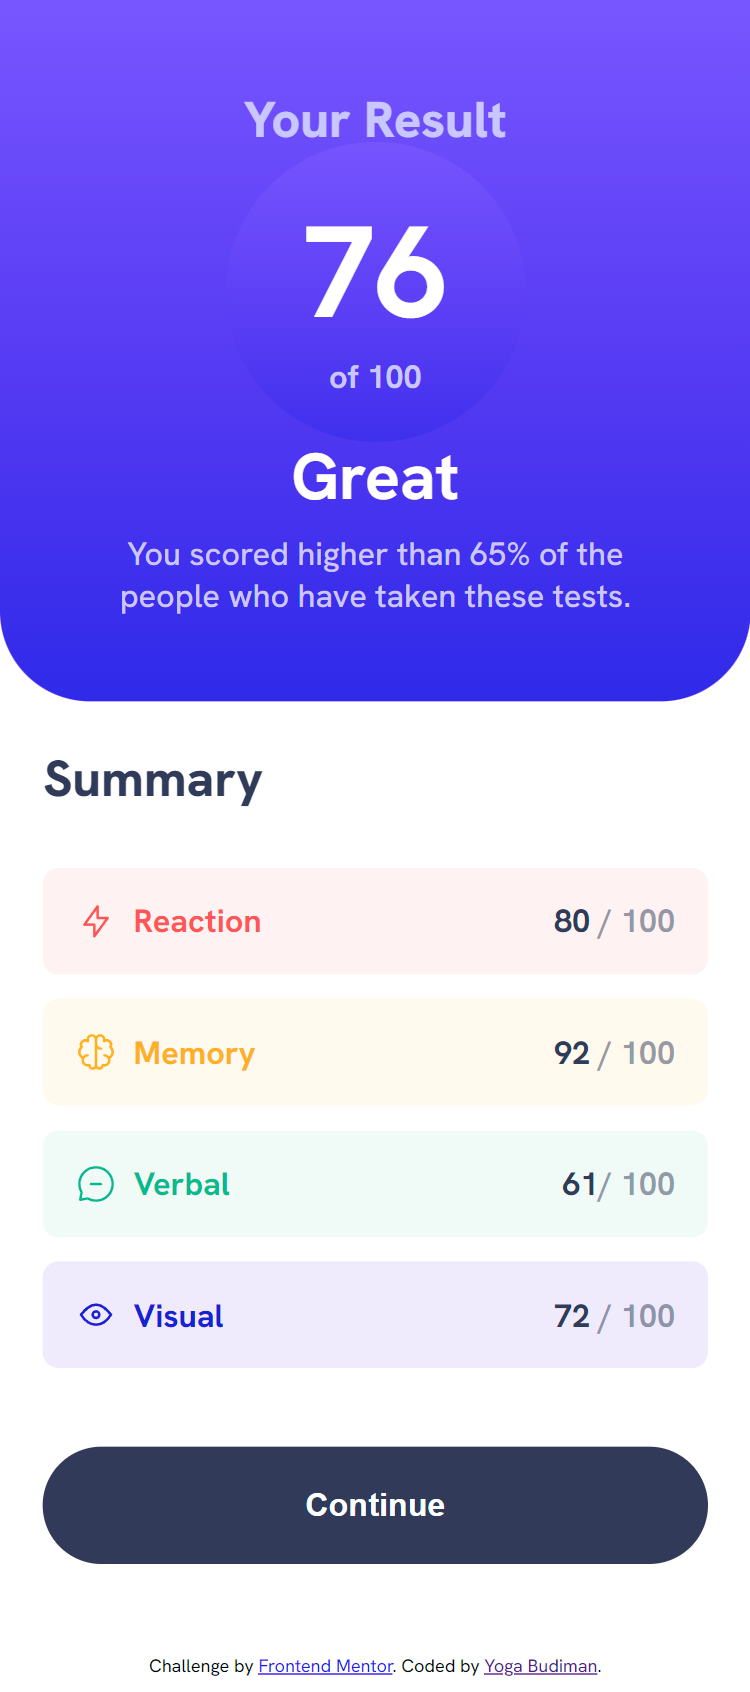
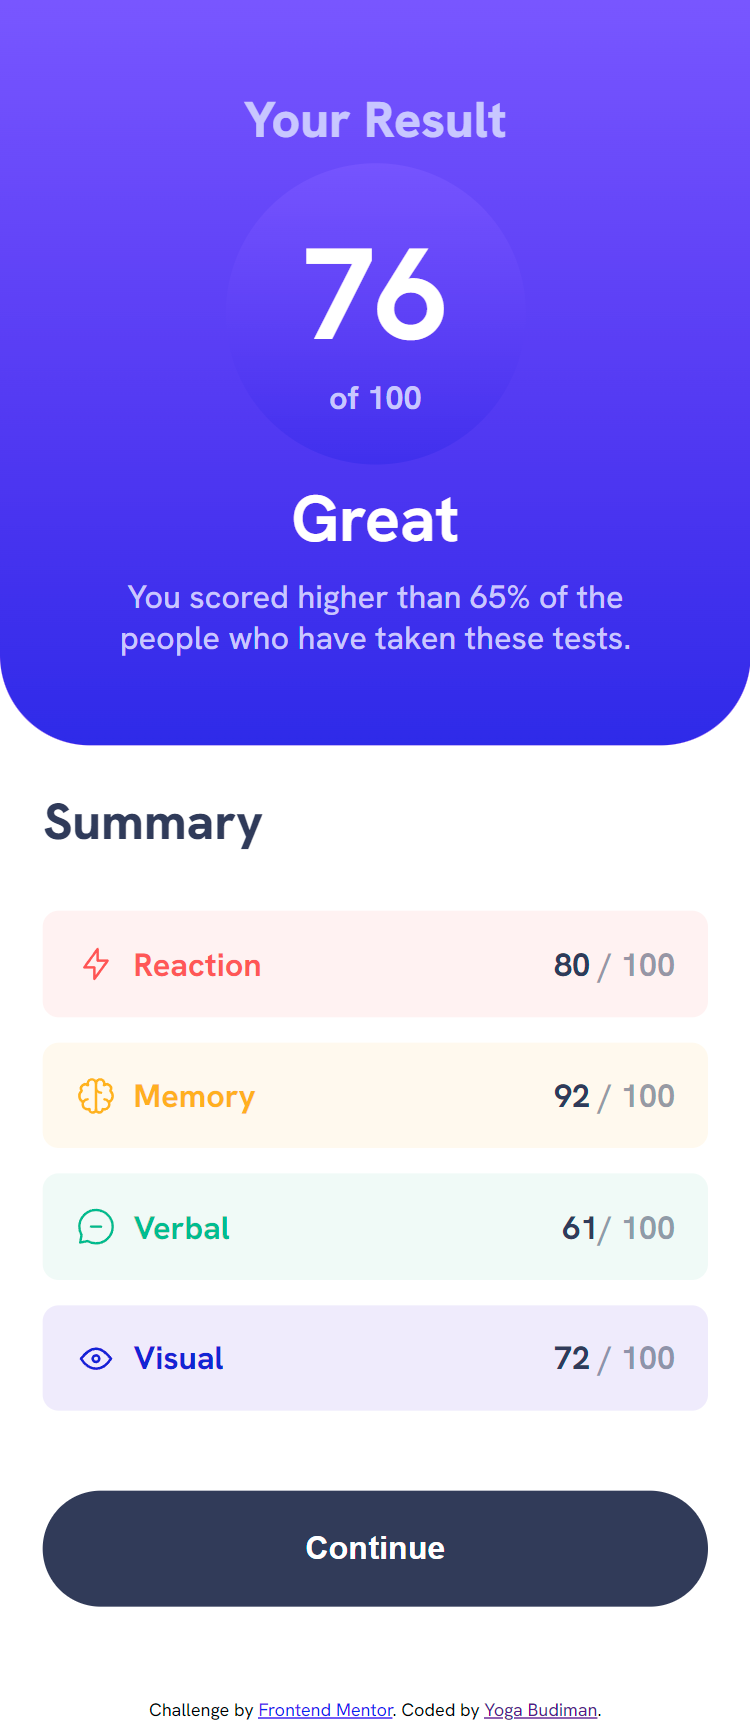
Minor fix

diff --git a/style.css b/style.css
@@ -275,6 +275,10 @@ body {
     padding: 4.8rem 0rem;
   }
 
+  .main-heading {
+    margin-bottom: 1.2rem;
+  }
+
   .result-score::before {
     width: 40%;
     /* height: 60%; */
@@ -286,6 +290,10 @@ body {
       hsla(241, 81%, 54%, 0.5)
     );
     z-index: -2;
+  }
+
+  .score-class {
+    margin-top: 1.2rem;
   }
 
   .score-description {
